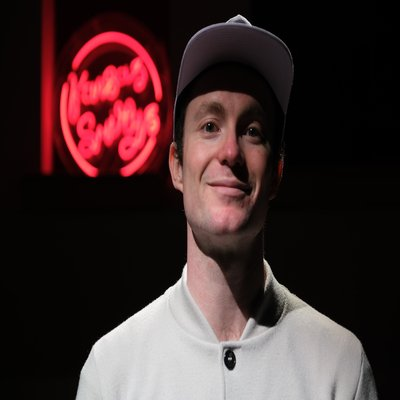
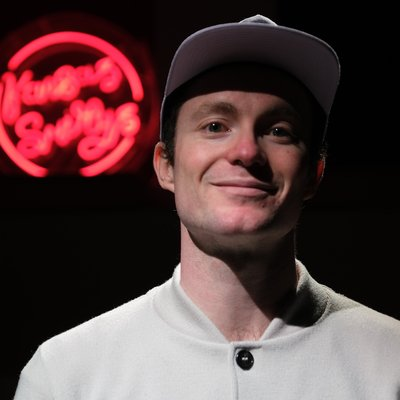
Update

diff --git a/style.css b/style.css
@@ -187,7 +187,7 @@ img { display: block; max-width: 100%; }
   border-radius: 50%;
   object-fit: cover;
   flex-shrink: 0;
-  border: 3px solid rgba(255,255,255,0.35);
+  border: none;
 }
 
 @media (max-width: 700px) {
@@ -493,16 +493,15 @@ img { display: block; max-width: 100%; }
   .logo-grid--large { -ms-overflow-style: none; scrollbar-width: none; }
 
   .logo-grid--large a {
-    flex: 0 0 70vw;
+    flex: 0 0 80vw;
     scroll-snap-align: start;
-    justify-content: center;
   }
 
   .logo-grid--large .img-tile img {
-    height: 70vw;
-    width: 70vw;
-    object-fit: contain;
-    margin: 0 auto;
+    height: 280px;
+    width: 100%;
+    object-fit: cover;
+    margin: 0;
   }
 }
 
